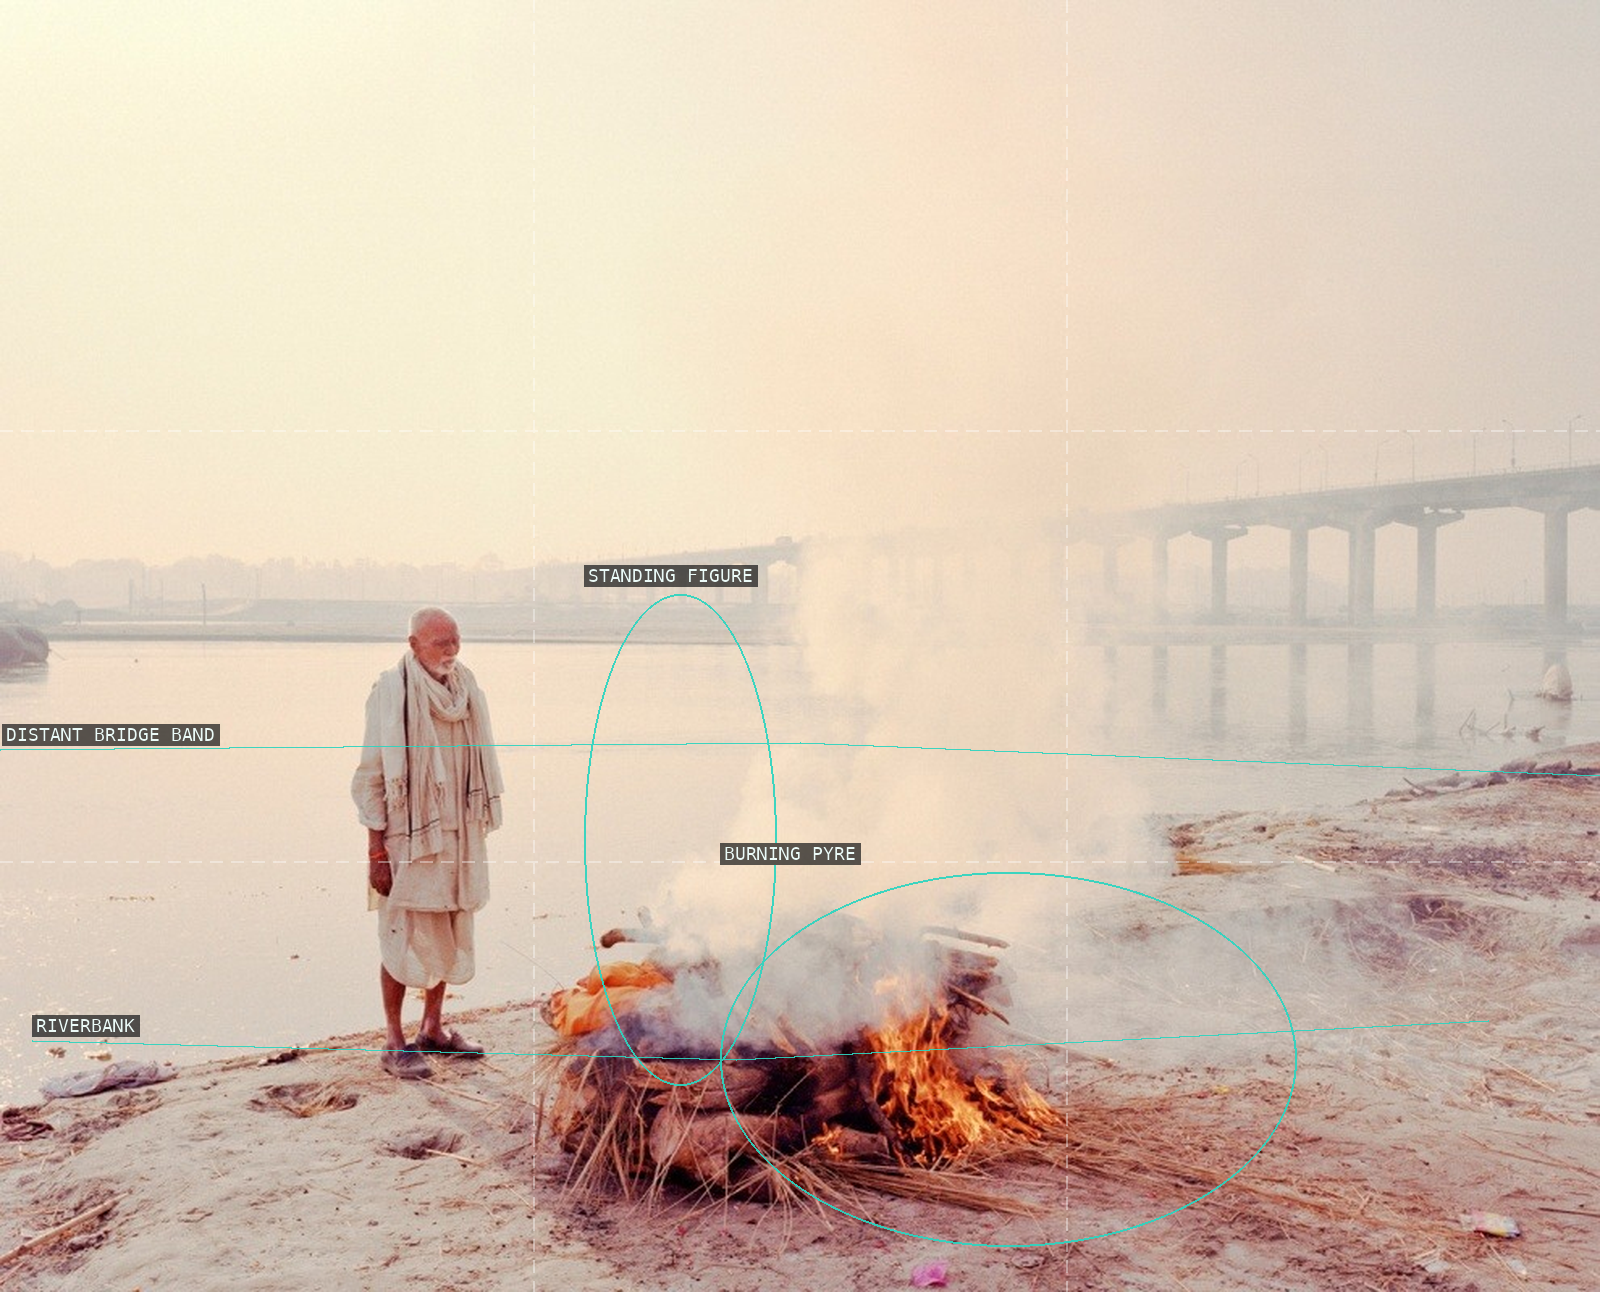
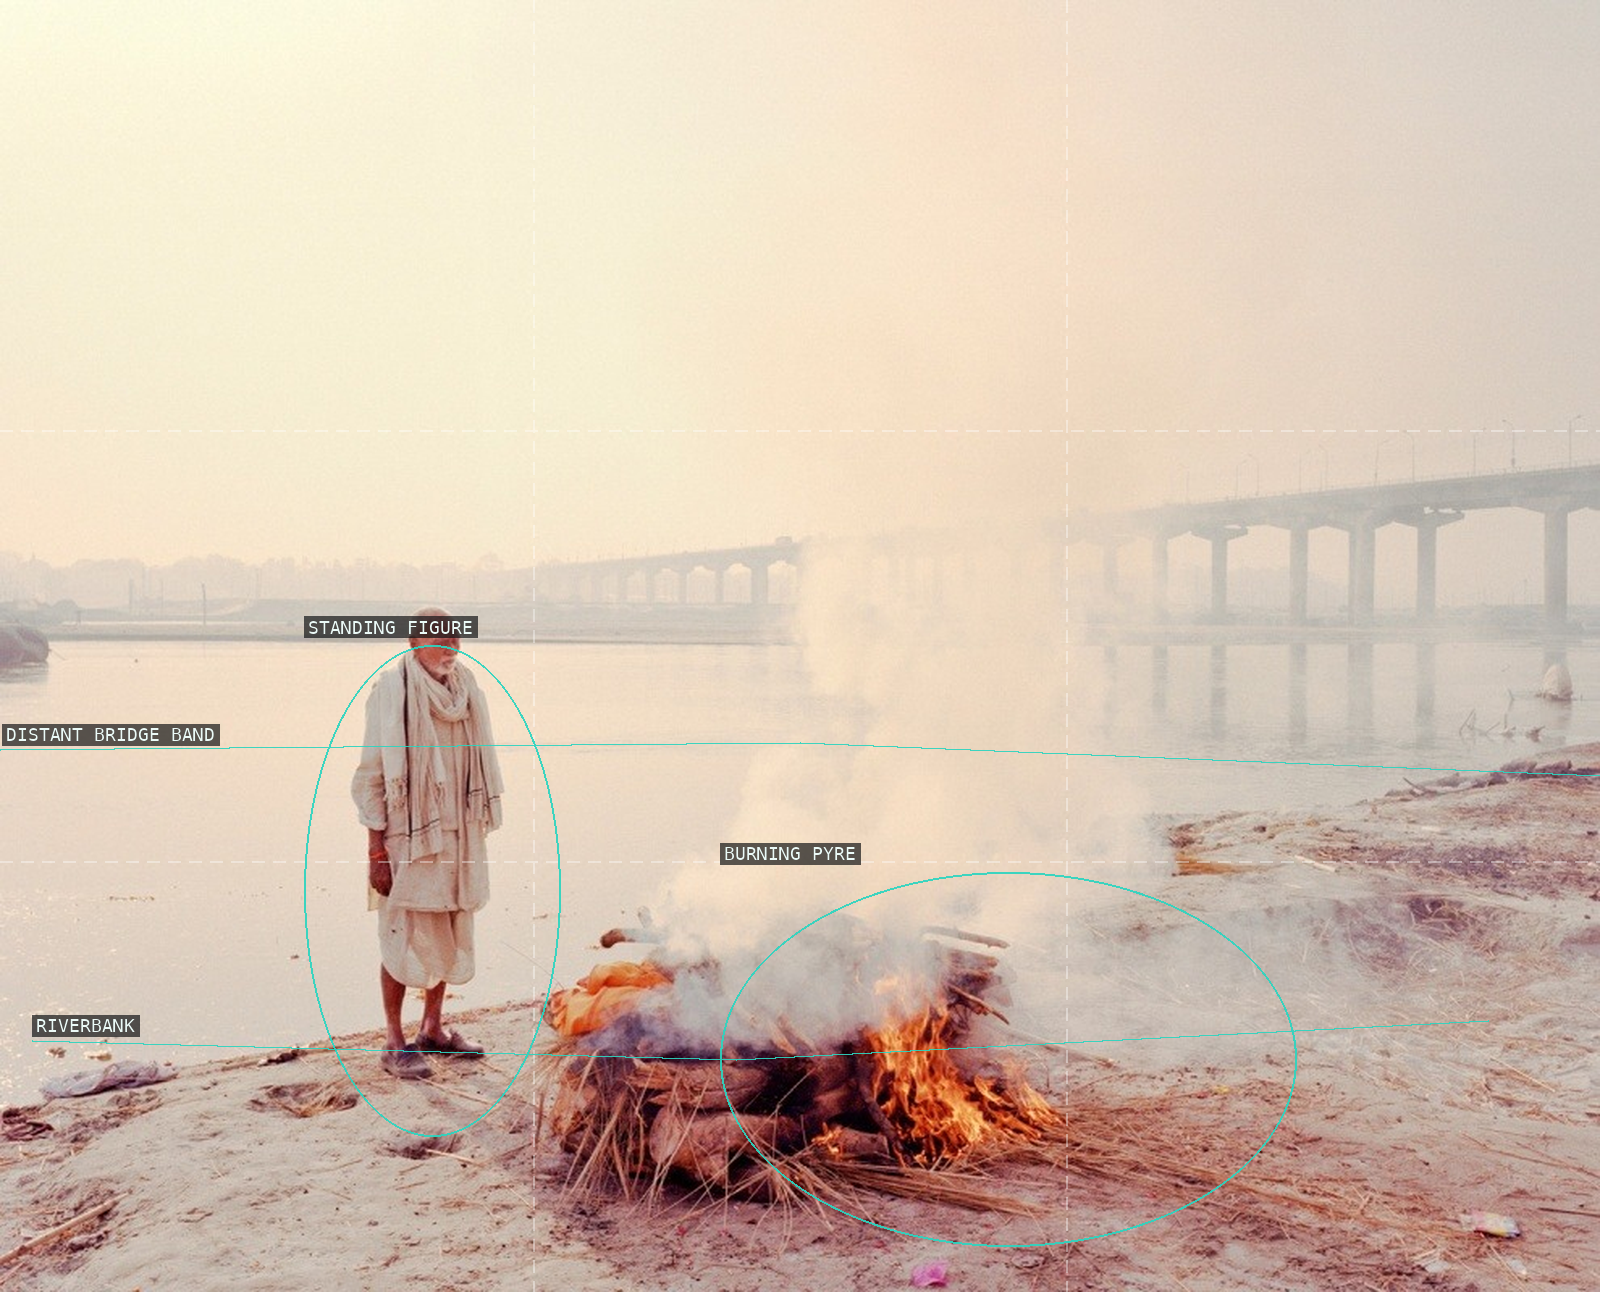
resolve critique: mustafah-abdulaziz

Changed region(s): [[0.3438, 0.4334, 0.4688, 0.4644], [0.1875, 0.4644, 0.3125, 0.4954]]

diff --git a/content/mustafah-abdulaziz/critique.md b/content/mustafah-abdulaziz/critique.md
@@ -1,4 +1,4 @@
-verdict: revise
+verdict: resolved
 
 ## Critique round — 2026-08-03
 
@@ -13,3 +13,11 @@ verdict: revise
 ### Advisory (non-blocking)
 
 None. All twelve image records have a reachable authoritative Leica finalist page and direct public rendition; each source entry identifies Mustafah Abdulaziz as rightsholder and supplies a concise four-factor fair-use rationale. The chapter does not invent camera settings, and its checked analyzer-derived numeric claims are within tolerance.
+
+## Builder resolution — 2026-08-03
+
+1. **06-pregnant-woman-konso:** retained the accurate woman-and-vessel ellipse and added truthful polylines for the descending footpath and right rock face, giving the proof three compositional teaching primitives.
+2. **08-cremation-allahabad:** moved `STANDING FIGURE` to `cx: 0.270, cy: 0.690`, where it encloses the person rather than smoke beside the pyre.
+3. **09-baptism-cape-town:** removed the false `BODY AND SKY BOUNDARY` annotation; the remaining primitives describe the central participant, hands and water, and surrounding group.
+
+Re-verified all required fixes from the full critique history: 2026-08-03 round 1. The three repaired specs score 100/100 and their rendered proofs passed visual inspection. `scripts/check.sh` passed.
